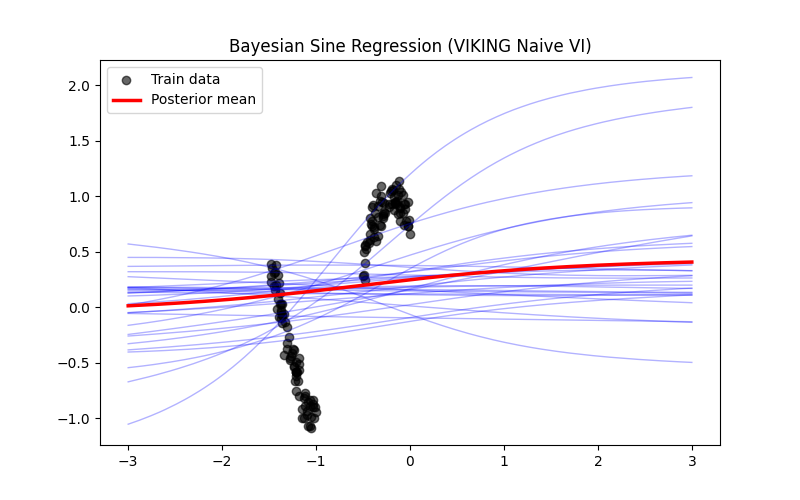
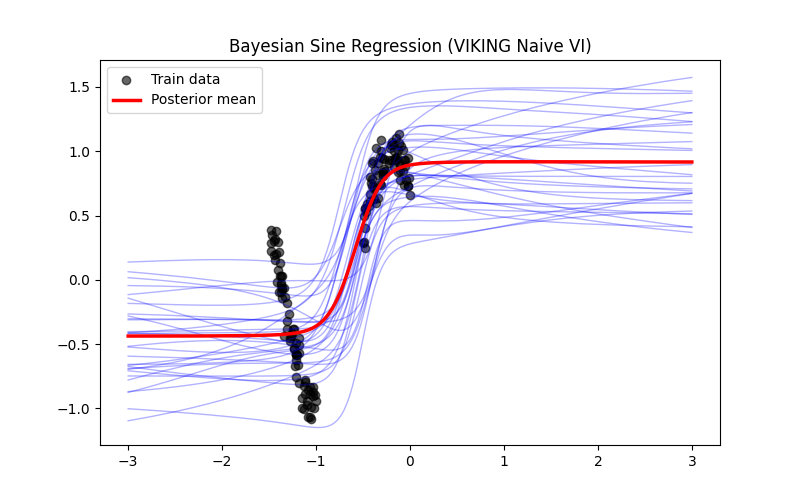
added an SVD method for calculating UUt

diff --git a/experiments/VIKING_sine_curve_GGN.py b/experiments/VIKING_sine_curve_GGN.py
@@ -7,7 +7,7 @@ import sys
 
 sys.path.append(os.path.abspath(os.path.join(os.path.dirname(__file__), '..')))
 
-from src.sampling import calculate_UUt, sample_theta
+from src.sampling import calculate_UUt, calculate_UUt_svd, sample_theta
 from src.utils import vectorize_nn
 from src.losses import sse_loss
 from src.plotting.naive_sine_plots import plot_bayesian_samples_with_mean, plot_mean_bayesian_with_MAP
@@ -126,7 +126,9 @@ def main():
 
     prior_vec = jnp.clip(jax.random.normal(prior_key, (params_vec.shape[0],)) ** 2, 0.1, 10.0)
 
-    sigma_kernel, sigma_image = 0.3, 0.6
+    sigma_kernel = jnp.exp(0.0)
+    sigma_image = jnp.exp(-2.0)
+    print(f"Initial log sigma_kernel: {jnp.log(sigma_kernel)}, Initial log sigma_image: {jnp.log(sigma_image)}")
     _, sample_key = jax.random.split(jax.random.PRNGKey(SEED))
 
     params_opt = {
@@ -154,7 +156,7 @@ def main():
 
     for epoch in range(num_epochs):
         training_key, subkey = jax.random.split(training_key)
-        UUt = calculate_UUt(model_fn_vec, params_opt_current["theta"], x_train, y_train)
+        UUt = calculate_UUt_svd(model_fn_vec, params_opt_current["theta"], x_train, y_train)
         loss, params_opt_current, opt_state_current, rec_term, kl = train_step(params_opt_current, opt_state_current, UUt, subkey)
 
         if epoch % log_every == 0 or epoch == num_epochs - 1:

diff --git a/experiments/VIKING_sine_curve_exact.py b/experiments/VIKING_sine_curve_exact.py
@@ -136,8 +136,9 @@ def main():
     params_vec, unflatten, model_fn_vec = vectorize_nn(model.apply, params_dict)
     prior_vec = jnp.clip(jax.random.normal(prior_key, (params_vec.shape[0],)) ** 2, 0.1, 10.0) # Vector of prior covariance diagonal values, sigmas squared
 
-    sigma_kernel = 0.3
-    sigma_image = 0.6
+    sigma_kernel = jnp.exp(0.0)
+    sigma_image = jnp.exp(-2.0)
+    print(f"Initial log sigma_kernel: {jnp.log(sigma_kernel)}, Initial log sigma_image: {jnp.log(sigma_image)}")
     _, sample_key = jax.random.split(jax.random.PRNGKey(SEED))
 
     params_opt = {
@@ -193,7 +194,7 @@ def main():
     J = compute_J(params_opt_current["theta"], model_fn_vec, x_train, y_train)
     thetas, _, _ = sample_theta_exact(
         key=post_key,
-        num_samples=50,  # number of posterior samples to draw
+        num_samples=100,  # number of posterior samples to draw
         J=J,
         theta_hat=params_opt_current["theta"],
         sigma_ker=params_opt_current["sigma_ker"],

diff --git a/src/sampling.py b/src/sampling.py
@@ -26,6 +26,26 @@ def calculate_UUt(model_fn, params_vec, x_train, y_train):
     UUt = I_p - (V @ (1.0 - null_mask)) @ V.T
     return UUt
 
+def calculate_UUt_svd(model_fn, params_vec, x_train, y_train, rtol=1e-4):
+    # Jacobian: shape (N, D)
+    model_fn_lmbd = lambda p: jnp.squeeze(model_fn(p, x_train))
+    J = jax.jacfwd(model_fn_lmbd)(params_vec)
+
+    # Full SVD (J = U Σ V^T)
+    U, S, VT = jnp.linalg.svd(J, full_matrices=False)  # VT: (D, D)
+
+    # Determine rank (non-negligible singular values)
+    tol = rtol * jnp.max(S)
+    r = jnp.sum(S > tol)
+
+    # Kernel basis is last D - r columns of V^T
+    V_null = VT[r:].T  # (D, D - r)
+
+    # Projection onto kernel subspace
+    UUt = V_null @ V_null.T
+    return UUt
+
+
 def sample_theta(key, num_samples, UUt, theta_hat, sigma_ker, sigma_im):
     D = theta_hat.shape[0]
     subkeys = jax.random.split(key, num_samples)
